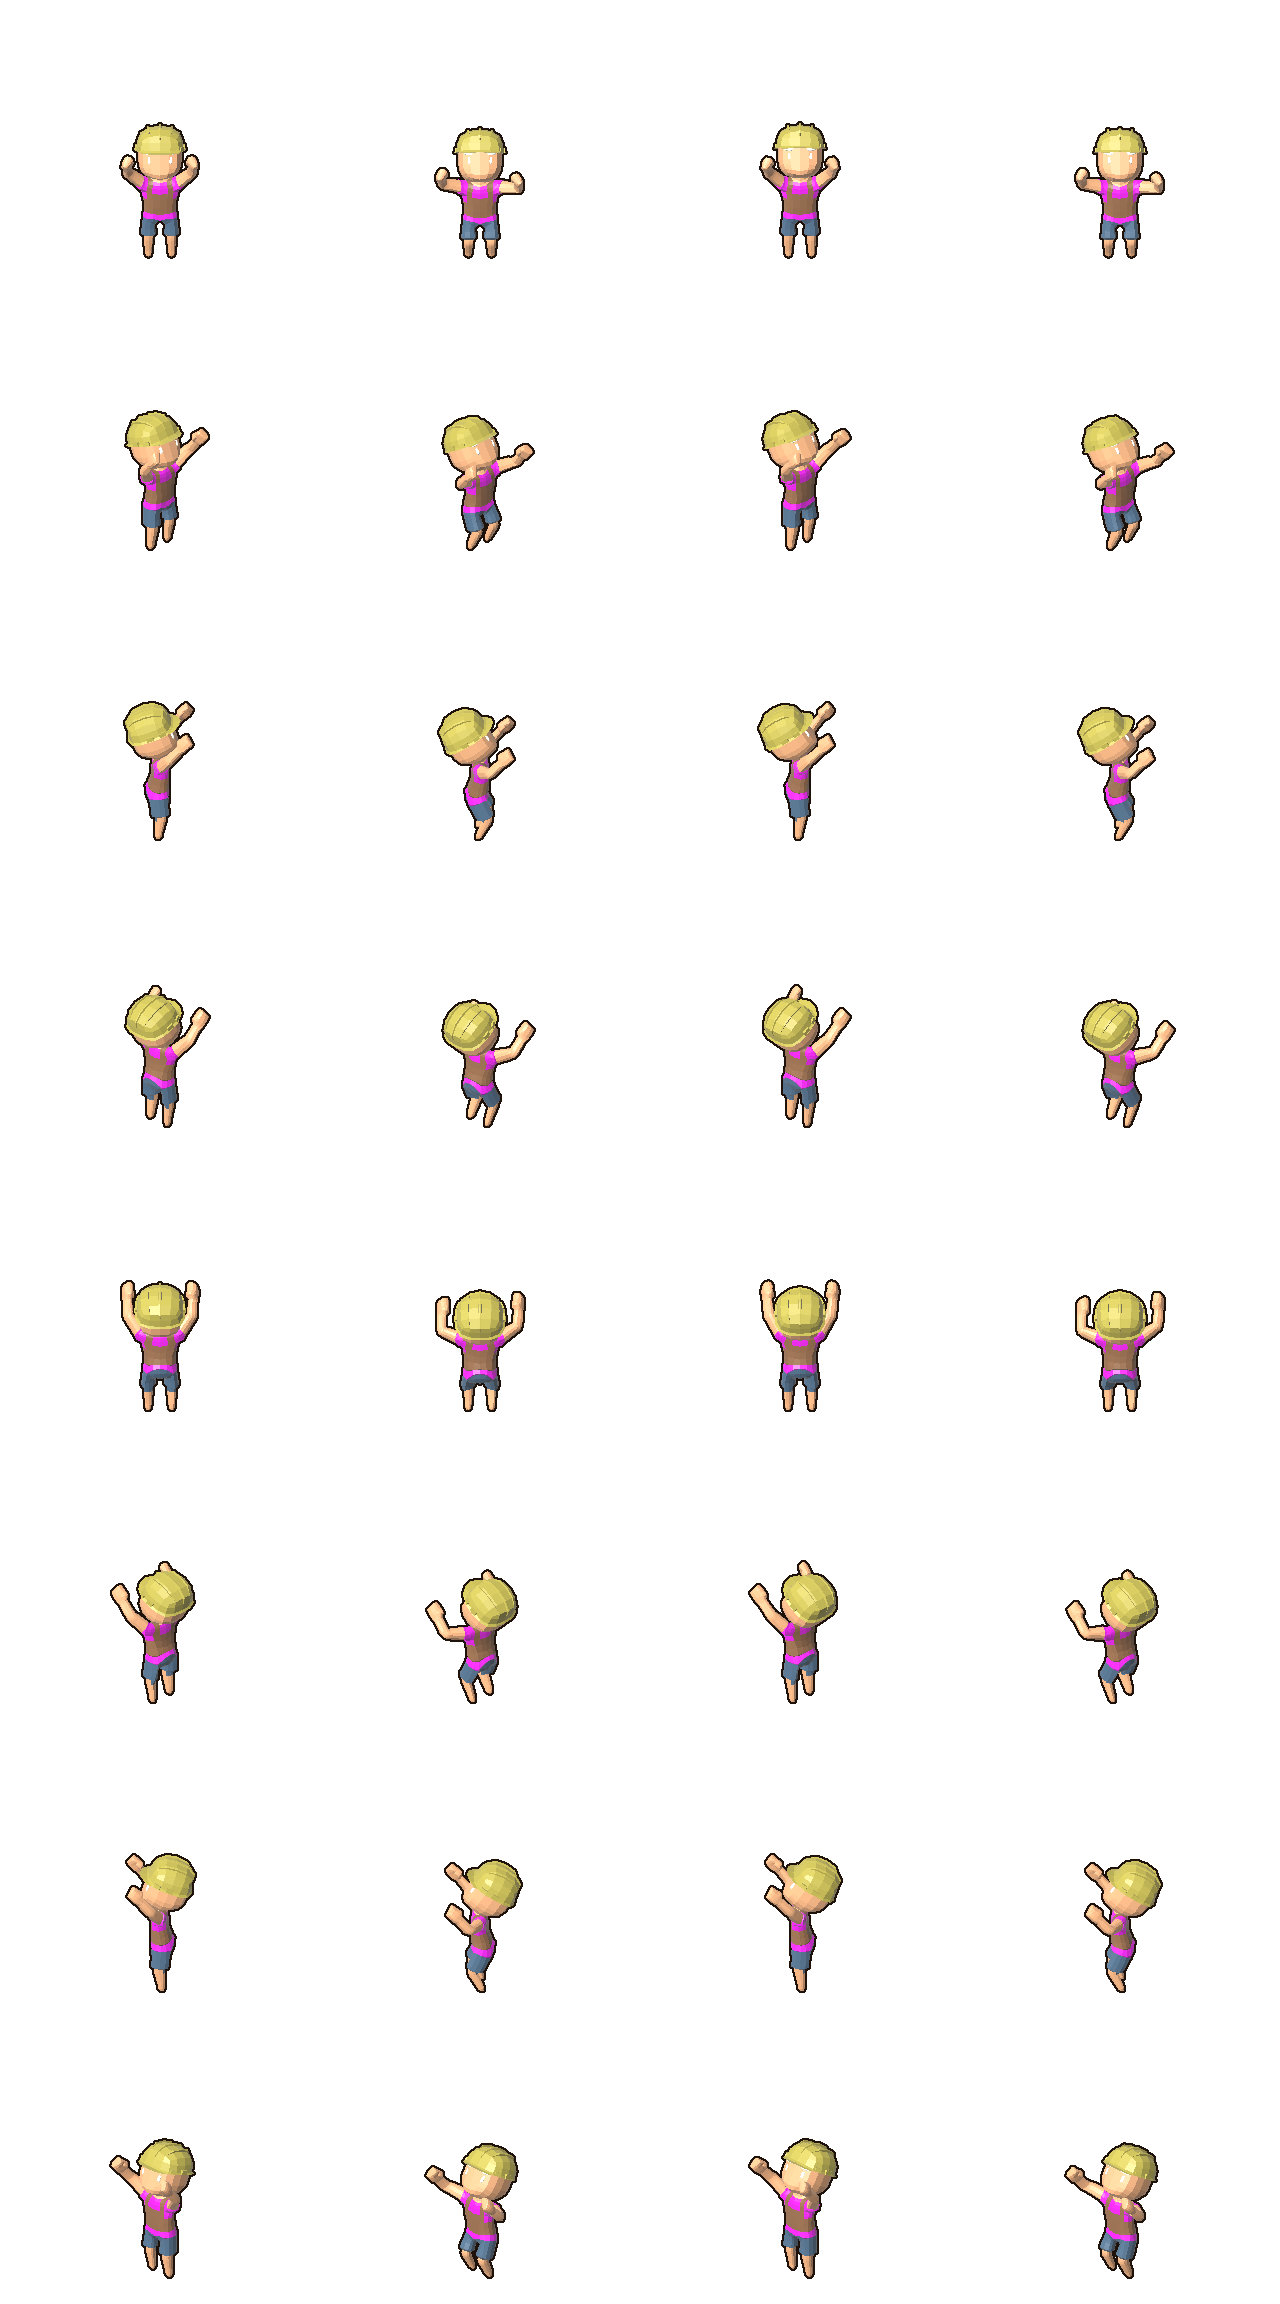
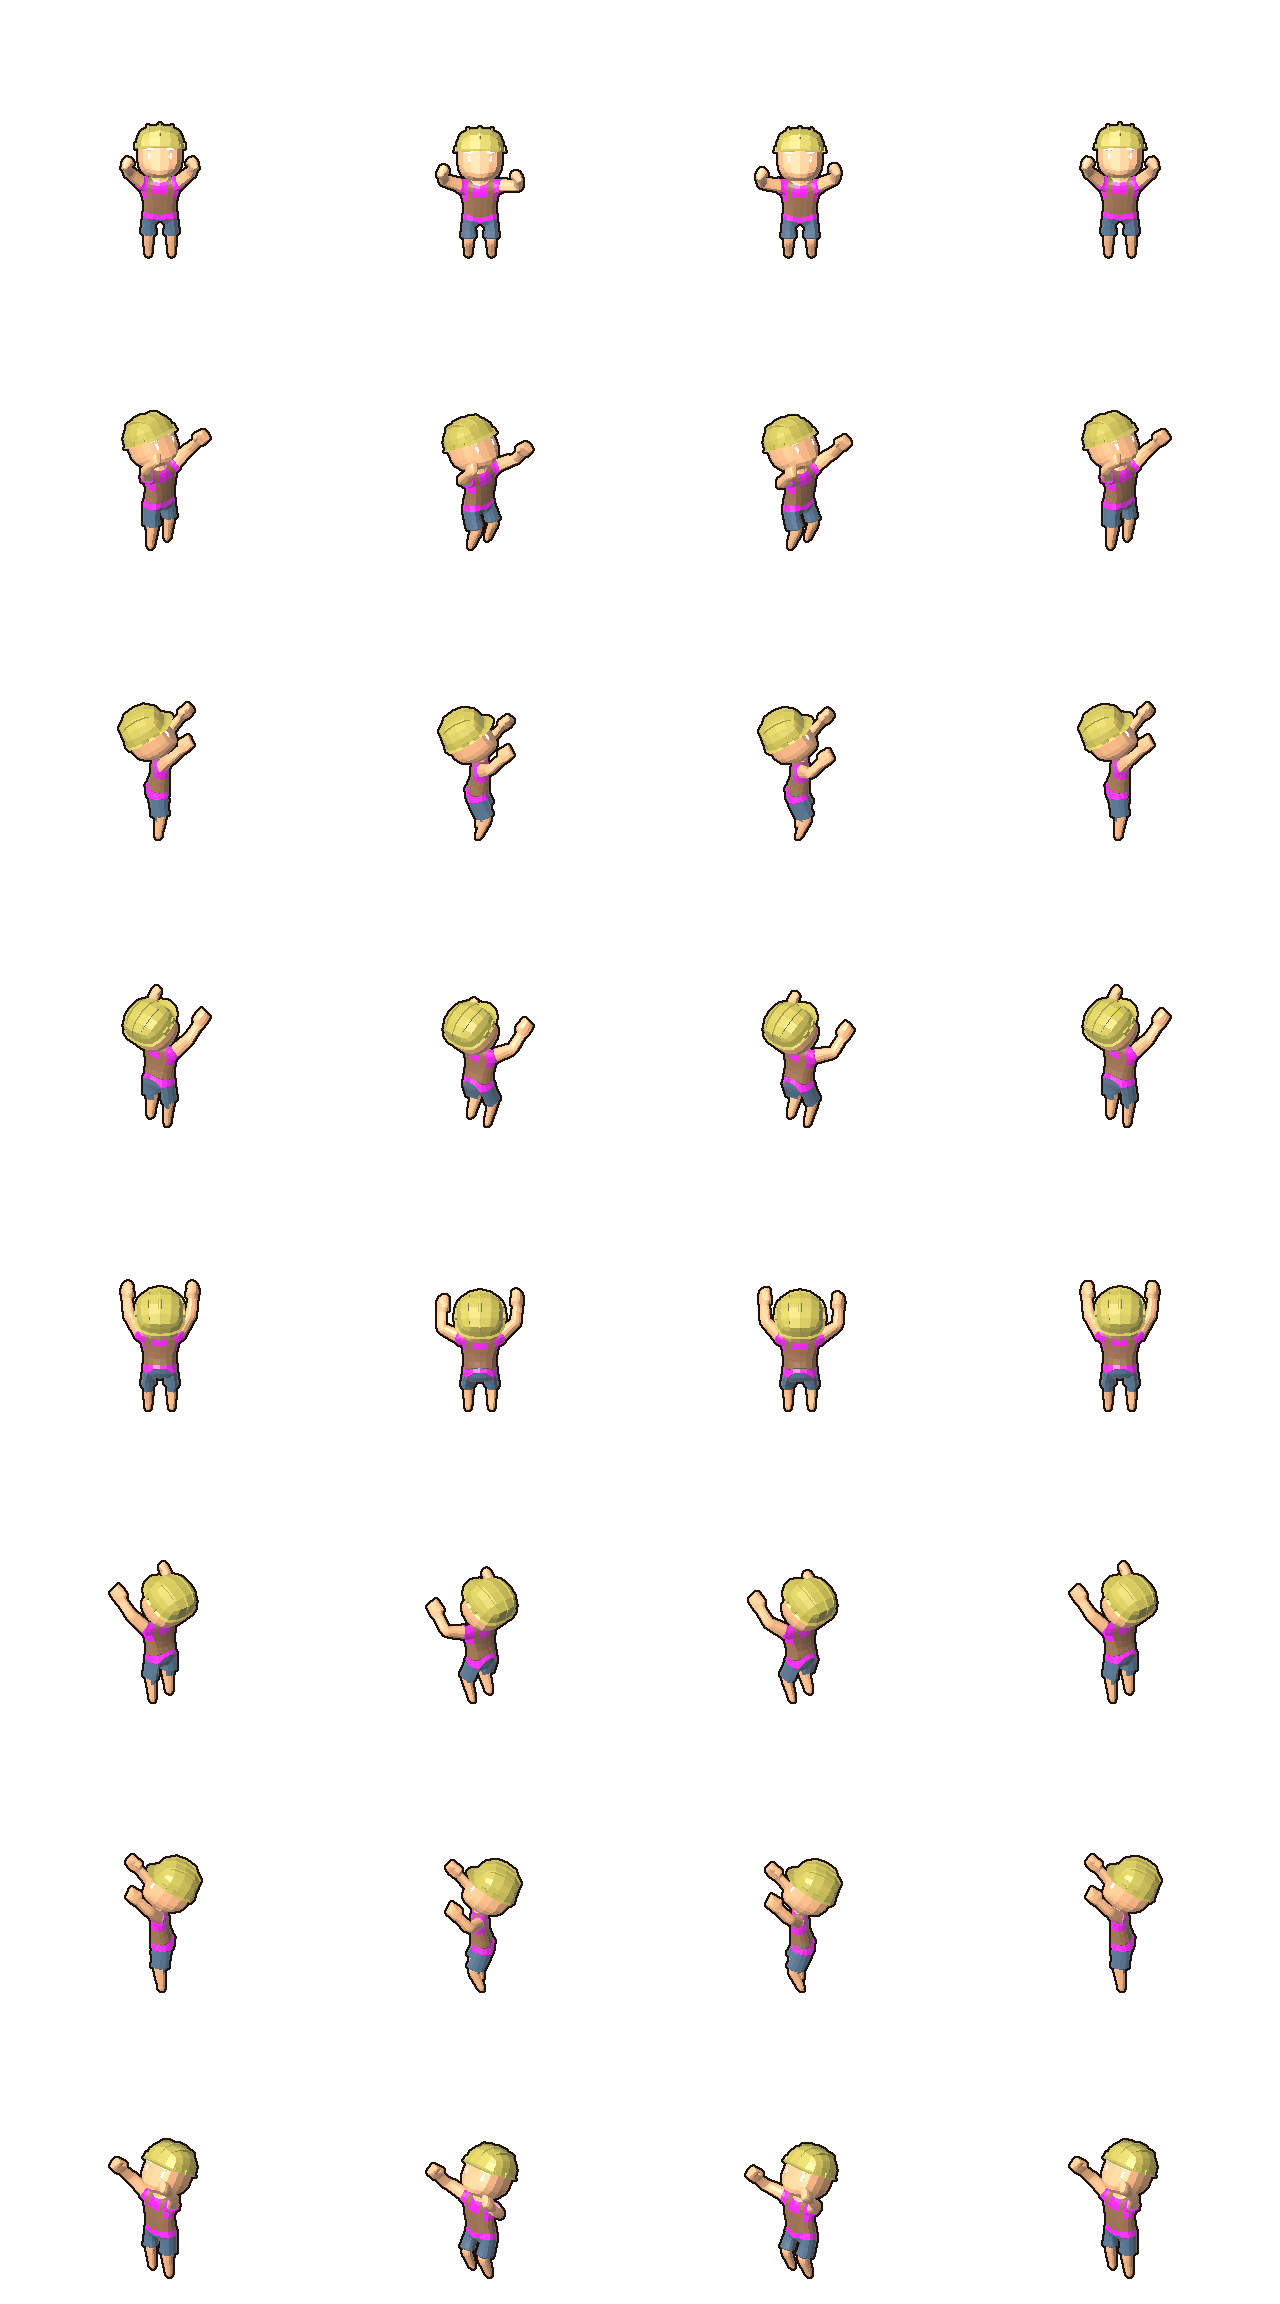
Stranded sheets: arms fully up (Victory 45-80%), stranded stance documented

diff --git a/crates/game-client/examples/render_sprites.rs b/crates/game-client/examples/render_sprites.rs
@@ -64,7 +64,7 @@ const SHOTS: &[PoseShot] = &[
     PoseShot { pose: "cast", clip: "Jump", frames: 12, timing: Timing::Once, sink: 0.0 },
     PoseShot { pose: "fall", clip: "Death", frames: 8, timing: Timing::Once, sink: 0.0 },
     PoseShot { pose: "drown", clip: "RecieveHit", frames: 4, timing: Timing::Loop, sink: 0.45 },
-    PoseShot { pose: "stranded", clip: "Victory", frames: 4, timing: Timing::Span(0.22, 0.67), sink: 0.0 },
+    PoseShot { pose: "stranded", clip: "Victory", frames: 4, timing: Timing::Span(0.45, 0.8), sink: 0.0 },
 ];
 
 /// Time of frame `k` of `n` in a clip lasting `duration`.

diff --git a/docs/specs/unit-art.md b/docs/specs/unit-art.md
@@ -98,7 +98,7 @@ lying body and the cast jump must fit), orthographic, seen from 30 deg above, ha
 The model's tribe materials (`--tribe`, default `Clothes,Hat`) are rendered in the magenta key, the material
 named `Skin` in `--skin` (the Quaternius characters ship a near-black skin; default tan `d29a6e`). Pose to clip: idle Idle
 (8 frames over the loop), walk Walk (12), pray SitDown (its last moment), cast Jump (12), fall Death (8, the
-last two lying), drown RecieveHit (4, sunk 45% under a ripple line), stranded Victory (4, looping over 22-67% of the clip: arms pumping up). Scale: the head top (default 3.1 model
+last two lying), drown RecieveHit (4, sunk 45% under a ripple line), stranded Victory (4, looping over 45-80% of the clip, see below). Scale: the head top (default 3.1 model
 units) is 34 base px above the feet.
 
 The game embeds the sheets (`units/sheets.rs`), crops every cell around the feet and swaps the magenta hue for
@@ -106,6 +106,14 @@ each tribe's. Every kind uses them whenever the original files are not (`--no-or
 witch (robe and hat in the tribe colour), brave = worker (shirt), warrior = soldier (top), preacher = wizard (robe;
 his hat stays dark so he is not mistaken for the shaman), spy = ninja (details), firewarrior = cowboy (jacket).
 A kind without sheets would fall back to its generated figure.
+
+### Stranded sheet
+The Quaternius characters have no "arms up" clip. Of the candidates, `Defeat` puts the hands on the head and
+`Victory` raises both arms and pumps them, so `Victory` stands in. Sampled over its length (worker, back view,
+where the stance reads best): 0-20% arms rising from the sides, 20-40% arms half up and spread, 45-80% both arms
+fully above the head, 80-100% coming back down. The sheet loops 4 frames over 45-80% (`Timing::Span`), at 4 fps;
+an earlier span (22-67%) showed the arms only shoulder high. Every model gets the sheet (the shaman's is unused:
+she is never stranded). With the original files the tribesmen use anim 12 instead (animations.md).
 
 ## Generating with an image model
 Models do not keep a fixed grid or anchor reliably: generate one direction or pose at a time, larger, then

diff --git a/docs/specs/animations.md b/docs/specs/animations.md
@@ -60,6 +60,17 @@ unknown. Outfits exist on 5, 6, 8-19, 25, 37-40, 48-52.
 | 20-24 | 4-18 | warrior with built-in helmet and club: attacks |
 | 89 | 12 | standing, gesturing; 90-91 (14) bowing to the ground (worship); 92 (17) working |
 
+### Stranded (arms up)
+A unit that cannot reach its target stands with both arms up. Found by rendering every anim's frames: only
+tribesman anim 12 has it, frame 1 (`catalog::ARMS_UP_FRAME`): standing, both arms straight up, drawn for every
+outfit (brave plain, warrior helmet, firewarrior a flame in each hand, spy hair) and every tribe and direction; the
+side views (2, 6) overlap both arms into one. The client holds that frame (`PersonAnim::ArmsUp`). Whether the game
+plays the whole jump (crouch, arms up, leap, land) or holds the frame is not checked. The warrior outfit's helmet
+floats above the head in the crouch frame 0 (original data or a wrong outfit mapping, unchecked).
+Ruled out: 48 (hands to the face, a possible "despair"), 49 (waving one arm), 89 (shifting weight), the
+preacher's 33-36 (pointing/swinging the staff), 28 and 32 (arms up but with the purple magic), 30 and 31
+(preacher and wildman spread-eagle in the air). The preacher has no arms-up stance: stranded preachers stand idle.
+
 Preacher body (blue headdress, staff, tribe layers on the gear): 26 (5) and 27 (8) walk, 28 (24) preaching with
 purple magic (praying), 29 (4) staff swing, 30 (4) flung, 32 (14) converting, 33-36 gestures, 39/44 (1) lying
 dead, 40/45 dying (burning, spirit rising), no arms-up stance (stranded preachers stand idle), 41 (3) standing with the staff (first frame = idle), 42 (5) kicking
